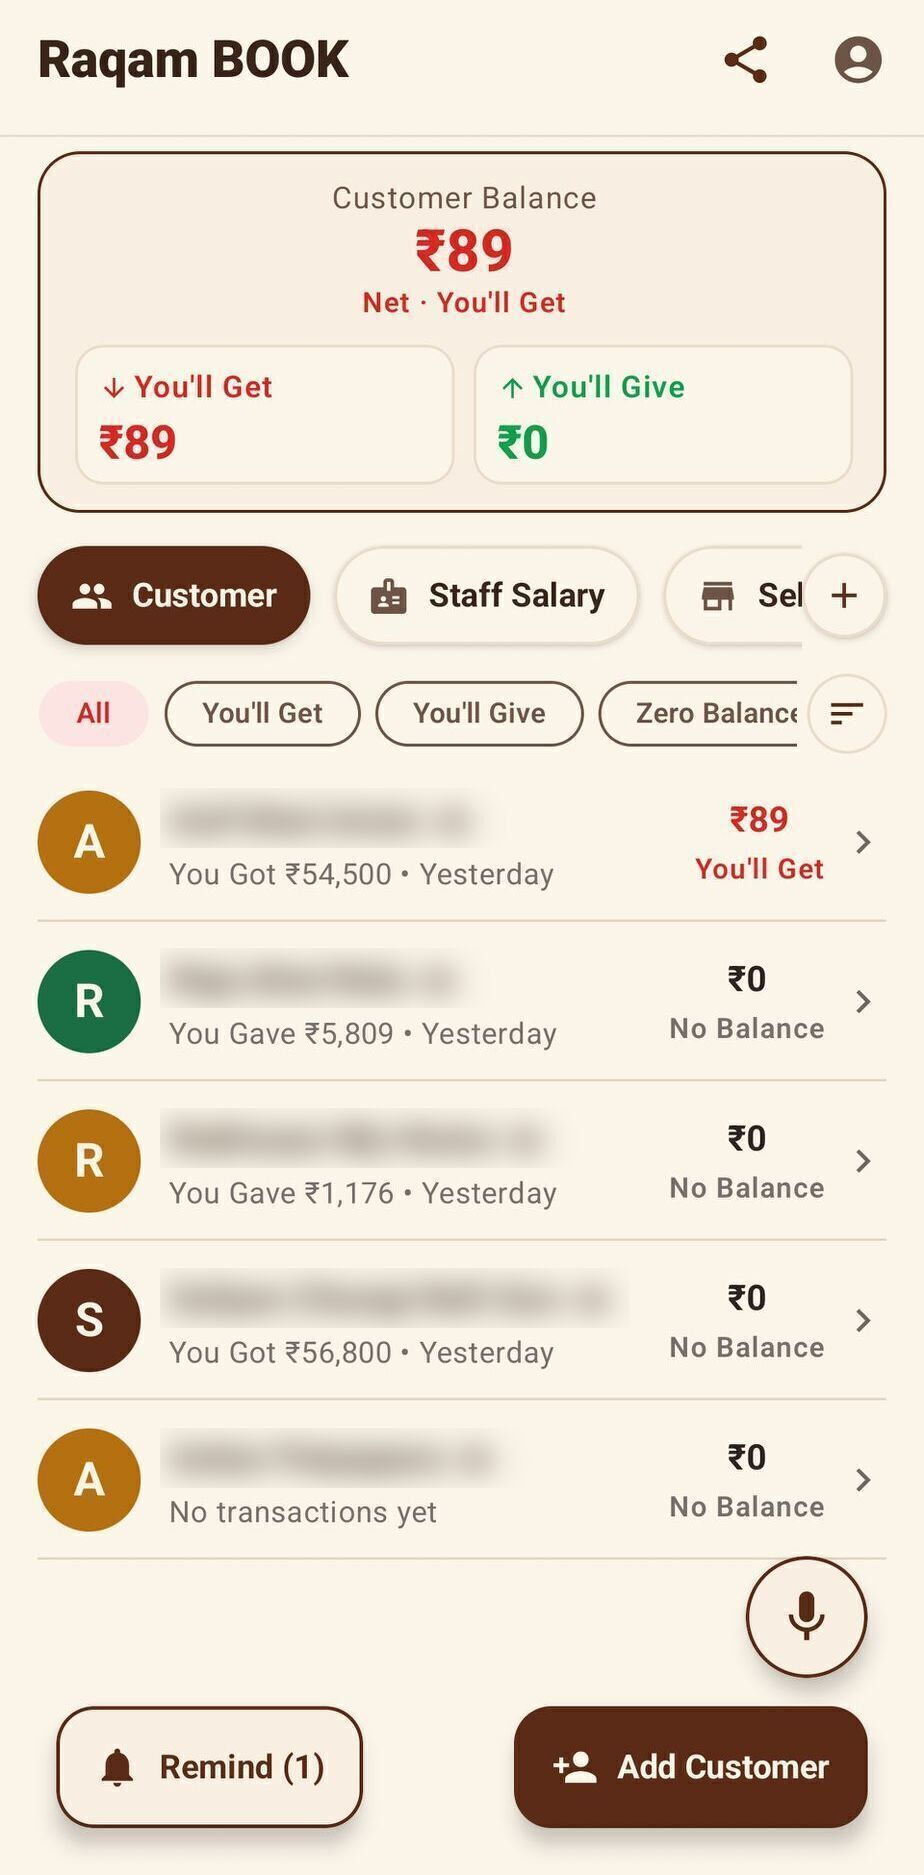
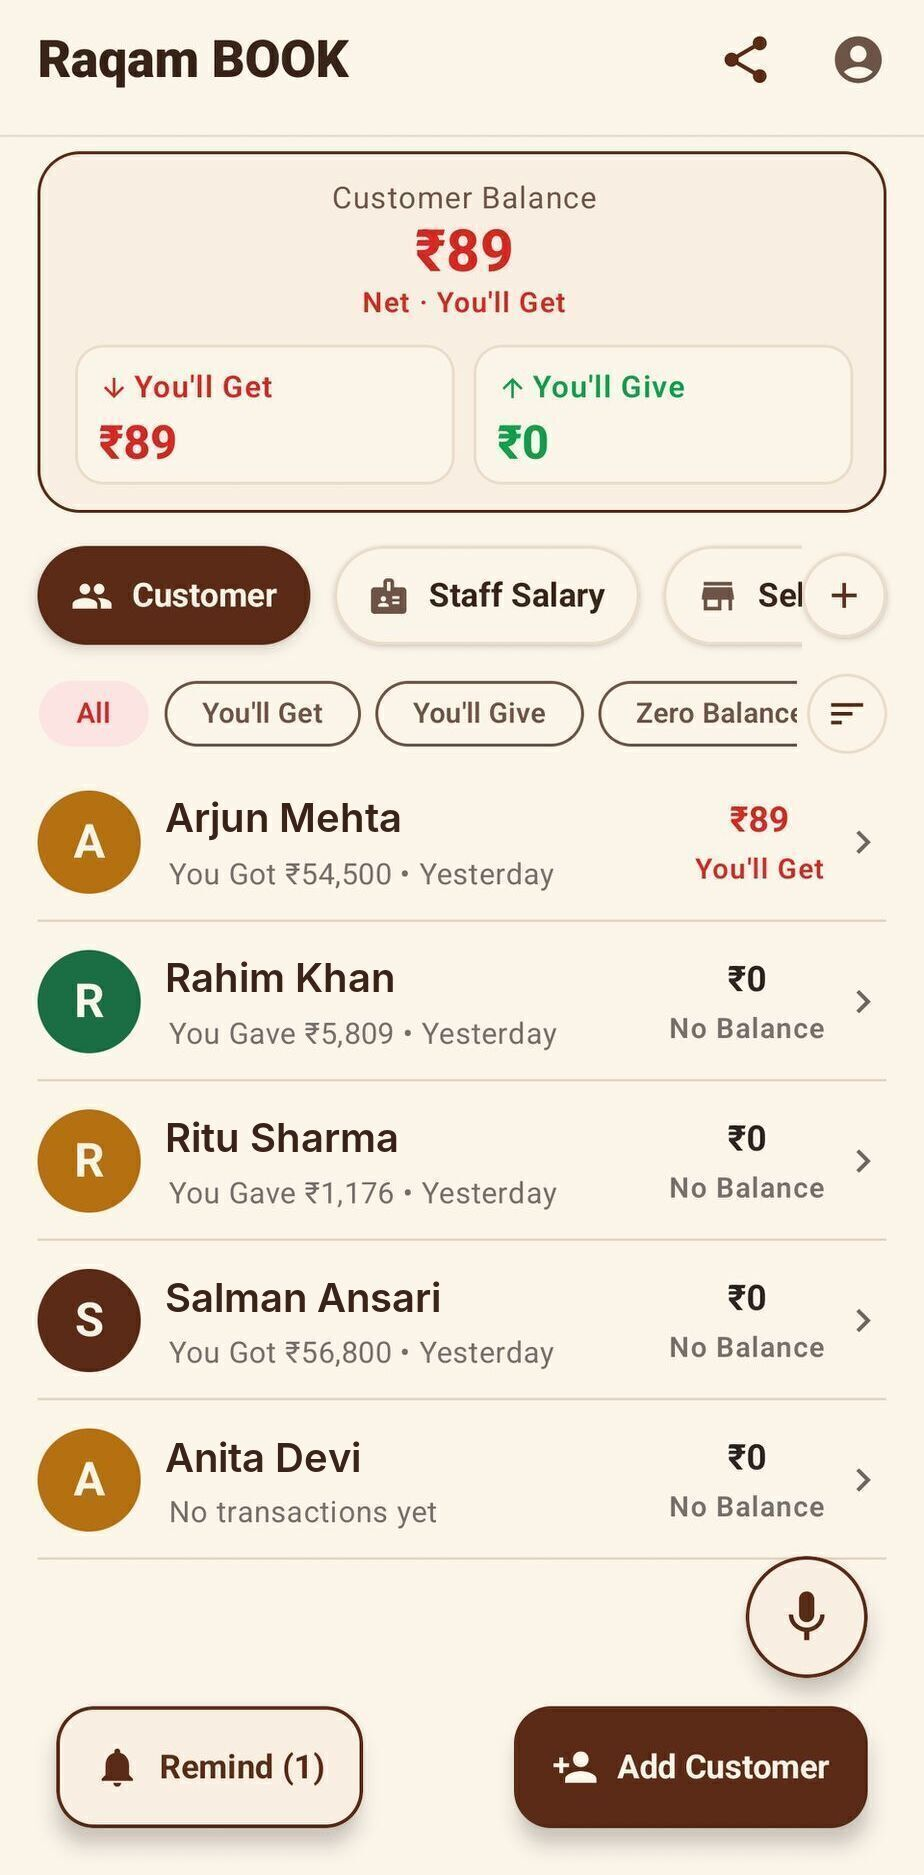
Mobile-first home page, demo names in screenshots, all languages listed

diff --git a/index.html b/index.html
@@ -4,34 +4,34 @@
 <style>
 :root{--cream:#FBF4E9;--surf:#F8EFE2;--muted:#F3E8D8;--border:#EADCC8;--ink:#3A2318;--inkm:#6E5446;--choc:#5B2B17;--deep:#3F1D10;--onch:#E9D5C0;--green:#0E9F4F;--gl:#E3F4EA;--cherry:#E02424;--cl:#FCE4E2}
 *{box-sizing:border-box}html{scroll-behavior:smooth}
-body{margin:0;background:var(--cream);color:var(--ink);font-family:Roboto,"Segoe UI",Arial,sans-serif;line-height:1.55;overflow-x:hidden}
-a{color:inherit}.wrap{max-width:1080px;margin:0 auto;padding:0 20px}
+body{margin:0;background:#E6D6BF;color:var(--ink);font-family:Roboto,"Segoe UI",Arial,sans-serif;line-height:1.55;overflow-x:hidden}
+a{color:inherit}.app{max-width:480px;margin:0 auto;background:var(--cream);box-shadow:0 0 50px rgba(91,43,23,.18);overflow:hidden}.wrap{padding:0 16px}
 header{position:sticky;top:0;z-index:20;background:rgba(251,244,233,.92);backdrop-filter:blur(8px);border-bottom:1px solid var(--border)}
 .nav{display:flex;align-items:center;justify-content:space-between;height:62px}
 .brand{display:flex;align-items:center;gap:10px;font-weight:800;font-size:20px;color:var(--choc);text-decoration:none}.brand img{width:34px;height:34px;border-radius:9px}
-.nav nav a{color:var(--inkm);text-decoration:none;font-weight:600;margin-left:20px;font-size:14.5px}
-.nav .dl{background:var(--choc);color:var(--cream);padding:8px 16px;border-radius:20px}
+.nav nav a{color:var(--inkm);text-decoration:none;font-weight:600;margin-left:20px;font-size:14.5px;display:none}
+.nav nav a.dl{display:inline-block;background:var(--choc);color:var(--cream);padding:8px 16px;border-radius:20px;margin:0}
 /* hero */
 .hero{background:radial-gradient(900px 500px at 80% 40%,#7a3b22 0,var(--deep) 60%);color:var(--cream);overflow:hidden}
-.hero .wrap{display:grid;grid-template-columns:1.05fr .95fr;gap:30px;align-items:center;padding-top:56px;padding-bottom:64px}
+.hero .wrap{padding-top:28px;padding-bottom:30px}
 .tag{display:inline-block;background:rgba(251,244,233,.12);border:1px solid rgba(251,244,233,.25);padding:5px 14px;border-radius:20px;font-size:13px;font-weight:600;margin-bottom:16px}
-h1{font-size:48px;line-height:1.08;margin:0 0 16px;letter-spacing:-.8px}
+h1{font-size:33px;line-height:1.08;margin:0 0 16px;letter-spacing:-.8px}
 h1 em{font-style:normal;color:#F2C48D}
-.lead{font-size:18.5px;color:var(--onch);margin:0 0 26px;max-width:470px}
+.lead{font-size:16px;color:var(--onch);margin:0 0 20px}
 .btn{display:inline-flex;align-items:center;gap:10px;background:var(--cream);color:var(--choc);padding:13px 24px;border-radius:30px;font-weight:800;font-size:16px;text-decoration:none;transition:transform .2s}
 .btn:hover{transform:translateY(-2px) scale(1.03)}.btn small{display:block;font-weight:600;font-size:10.5px;color:var(--inkm);line-height:1}.btn b{display:block;line-height:1.15}
 .btn.dark{background:var(--choc);color:var(--cream)}.btn.dark small{color:var(--onch)}
 .sub{margin-top:14px;color:var(--onch);font-size:13.5px}
 /* phones */
-.stage{position:relative;height:560px;display:flex;justify-content:center;align-items:center}
-.ph{position:absolute;width:250px;aspect-ratio:9/19;background:#1e0f08;border-radius:38px;padding:9px;box-shadow:0 30px 60px rgba(0,0,0,.45),inset 0 0 0 2px #6b4430}
+.stage{position:relative;height:470px;margin-top:10px;display:flex;justify-content:center;align-items:center}
+.ph{position:absolute;width:205px;aspect-ratio:9/19;background:#1e0f08;border-radius:38px;padding:9px;box-shadow:0 30px 60px rgba(0,0,0,.45),inset 0 0 0 2px #6b4430}
 .ph::before{content:"";position:absolute;top:14px;left:50%;transform:translateX(-50%);width:62px;height:16px;background:#1e0f08;border-radius:10px;z-index:3}
 .scr{position:relative;width:100%;height:100%;border-radius:30px;overflow:hidden;background:var(--cream)}
 .scr img{position:absolute;inset:26px 0 0 0;width:100%;height:calc(100% - 26px);object-fit:cover;object-position:top;opacity:0;transform:translateX(26px);transition:opacity .8s,transform .8s}
 .scr img.on{opacity:1;transform:none}
 .ph.main{z-index:2;animation:fl 6s ease-in-out infinite}
-.ph.l{left:2%;transform:rotate(-9deg) scale(.82);opacity:.9;animation:fl2 7s ease-in-out infinite}
-.ph.r{right:2%;transform:rotate(9deg) scale(.82);opacity:.9;animation:fl3 7.5s ease-in-out infinite}
+.ph.l{left:-6%;transform:rotate(-9deg) scale(.8);opacity:.9;animation:fl2 7s ease-in-out infinite}
+.ph.r{right:-6%;transform:rotate(9deg) scale(.82);opacity:.9;animation:fl3 7.5s ease-in-out infinite}
 @keyframes fl{50%{transform:translateY(-16px)}}@keyframes fl2{50%{transform:rotate(-9deg) scale(.82) translateY(14px)}}@keyframes fl3{50%{transform:rotate(9deg) scale(.82) translateY(-12px)}}
 .chip{position:absolute;z-index:4;background:var(--cream);color:var(--ink);border-radius:14px;padding:8px 13px;font-weight:700;font-size:13px;box-shadow:0 10px 24px rgba(0,0,0,.3);animation:fl 5s ease-in-out infinite}
 .chip.g{color:var(--green)}.chip.c{color:var(--cherry)}
@@ -40,19 +40,19 @@ h1 em{font-style:normal;color:#F2C48D}
 .mq div{display:inline-block;animation:mq 38s linear infinite;font-weight:700;font-size:20px}
 .mq span{margin:0 22px}.mq i{color:#F2C48D;font-style:normal}
 @keyframes mq{to{transform:translateX(-50%)}}
-section{padding:60px 0}h2{font-size:34px;color:var(--choc);margin:0 0 8px;letter-spacing:-.4px}.sec{color:var(--inkm);margin:0 0 30px;max-width:560px}
+section{padding:38px 0}h2{font-size:26px;color:var(--choc);margin:0 0 8px;letter-spacing:-.4px}.sec{color:var(--inkm);margin:0 0 30px;max-width:560px}
 .center{text-align:center}.center .sec{margin-left:auto;margin-right:auto}
 /* reveal */
 .rv{opacity:0;transform:translateY(26px);transition:opacity .7s,transform .7s}.rv.on{opacity:1;transform:none}
 /* features */
-.grid{display:grid;grid-template-columns:repeat(3,1fr);gap:16px}
-.card{background:var(--surf);border:1px solid var(--border);border-radius:20px;padding:22px;transition:transform .25s,box-shadow .25s}
+.grid{display:grid;grid-template-columns:1fr 1fr;gap:12px}
+.card{background:var(--surf);border:1px solid var(--border);border-radius:18px;padding:16px;transition:transform .25s,box-shadow .25s}
 .card:hover{transform:translateY(-6px);box-shadow:0 14px 30px rgba(91,43,23,.12)}
 .ic{width:48px;height:48px;border-radius:14px;background:var(--muted);display:flex;align-items:center;justify-content:center;font-size:24px;margin-bottom:12px}
-.card h3{margin:0 0 6px;font-size:18px;color:var(--choc)}.card p{margin:0;color:var(--inkm);font-size:14.5px}
+.card h3{margin:0 0 4px;font-size:16px;color:var(--choc)}.card p{margin:0;color:var(--inkm);font-size:13.5px}
 /* steps */
 .steps{background:var(--surf);border-block:1px solid var(--border)}
-.st{display:grid;grid-template-columns:repeat(3,1fr);gap:20px;counter-reset:s}
+.st{display:grid;grid-template-columns:1fr;gap:12px;counter-reset:s}
 .st div{position:relative;padding:20px 20px 20px 20px;background:var(--cream);border:1px solid var(--border);border-radius:18px}
 .st div::before{counter-increment:s;content:counter(s);display:flex;width:34px;height:34px;border-radius:50%;background:var(--choc);color:var(--cream);font-weight:800;align-items:center;justify-content:center;margin-bottom:10px}
 .st h4{margin:0 0 4px;font-size:17px;color:var(--choc)}.st p{margin:0;color:var(--inkm);font-size:14.5px}
@@ -62,34 +62,33 @@ section{padding:60px 0}h2{font-size:34px;color:var(--choc);margin:0 0 8px;letter
 .trades span:hover{background:var(--choc);color:var(--cream);transform:scale(1.06)}
 /* languages */
 .lang{background:var(--deep);color:var(--cream)}.lang h2{color:var(--cream)}.lang .sec{color:var(--onch)}
-.lg{display:flex;flex-wrap:wrap;gap:12px;justify-content:center}
-.lg div{background:rgba(251,244,233,.08);border:1px solid rgba(251,244,233,.2);border-radius:16px;padding:12px 18px;min-width:128px;text-align:center;animation:pop 4s ease-in-out infinite}
+.lg{display:flex;flex-wrap:wrap;gap:10px;justify-content:center}
+.lg div{background:rgba(251,244,233,.08);border:1px solid rgba(251,244,233,.2);border-radius:14px;padding:10px 6px;width:calc(33.3% - 8px);text-align:center;animation:pop 4s ease-in-out infinite}
 .lg div:nth-child(2n){animation-delay:.6s}.lg div:nth-child(3n){animation-delay:1.2s}
-.lg b{display:block;font-size:21px}.lg small{color:var(--onch);font-size:12px}
+.lg b{display:block;font-size:19px}.lg small{color:var(--onch);font-size:12px}
 @keyframes pop{50%{transform:translateY(-6px);background:rgba(251,244,233,.16)}}
 /* plans */
-.plans{display:grid;grid-template-columns:1fr 1fr;gap:18px;max-width:760px;margin:0 auto}
+.plans{display:grid;grid-template-columns:1fr;gap:14px}
 .plan{background:var(--surf);border:1px solid var(--border);border-radius:22px;padding:26px}
 .plan.pro{background:var(--choc);color:var(--cream);border-color:var(--choc)}
 .plan h3{margin:0;font-size:22px}.plan .pr{font-size:15px;color:var(--inkm);margin:2px 0 14px}.plan.pro .pr{color:var(--onch)}
 .plan ul{list-style:none;padding:0;margin:0}.plan li{padding:5px 0 5px 26px;position:relative;font-size:14.5px}
 .plan li::before{content:"✓";position:absolute;left:0;color:var(--green);font-weight:800}.plan.pro li::before{color:#8fe3b2}
 /* faq */
-.faq{max-width:760px;margin:0 auto}details{background:var(--surf);border:1px solid var(--border);border-radius:16px;padding:14px 18px;margin-bottom:10px}
+.faq{}details{background:var(--surf);border:1px solid var(--border);border-radius:16px;padding:14px 18px;margin-bottom:10px}
 summary{cursor:pointer;font-weight:700;color:var(--choc)}details p{margin:8px 0 0;color:var(--inkm);font-size:14.5px}
 .cta{background:radial-gradient(700px 300px at 50% 0,#7a3b22,var(--deep));color:var(--cream);text-align:center}.cta h2{color:var(--cream)}
 footer{background:var(--surf);border-top:1px solid var(--border);color:var(--inkm);font-size:14px}
 footer .wrap{display:flex;justify-content:space-between;align-items:center;padding:22px 20px;flex-wrap:wrap;gap:10px}footer a{font-weight:700;color:var(--choc)}
-@media(max-width:860px){.hero .wrap{grid-template-columns:1fr;padding-top:36px}h1{font-size:36px}.stage{height:500px}.grid,.st,.plans{grid-template-columns:1fr}.nav nav a.hide{display:none}}
 @media(prefers-reduced-motion:reduce){*{animation:none!important;transition:none!important}.scr img.on{opacity:1}.rv{opacity:1;transform:none}}
 </style></head><body>
-<header><div class="wrap nav"><a class="brand" href="#"><img src="icon.png" alt="">Raqam Book</a>
-<nav><a class="hide" href="#features">Khaasiyat</a><a class="hide" href="#languages">Bhashayein</a><a class="hide" href="#plans">Plans</a><a class="hide" href="#faq">FAQ</a><a class="dl" href="#download">Download</a></nav></div></header>
+<div class="app"><header><div class="wrap nav"><a class="brand" href="#"><img src="icon.png" alt="">Raqam Book</a>
+<nav><a class="dl" href="#download">Download</a></nav></div></header>
 
 <div class="hero"><div class="wrap"><div>
 <span class="tag">📒 Dukaan aur ghar, dono ka khaata</span>
 <h1>Hisaab ab <em>haath mein</em>, kaagaz ki jhanjhat nahi.</h1>
-<p class="lead">Customer ka udhaar, bikri, kharcha aur staff ki salary, sab ek app mein. English aur Hindi mein taiyaar, baaki Indian bhashayein aa rahi hain.</p>
+<p class="lead">Customer ka udhaar, bikri, kharcha aur staff ki salary, sab ek app mein. Aapki apni bhasha mein.</p>
 <a class="btn" href="#download"><span style="font-size:24px">▶</span><span><small>GET IT ON</small><b>Google Play</b></span></a>
 <div class="sub">Free mein shuru karein · Aapka data aapke apne login ke andar</div></div>
 <div class="stage">
@@ -120,7 +119,7 @@ footer .wrap{display:flex;justify-content:space-between;align-items:center;paddi
 <section><div class="wrap center"><div class="rv"><h2>Har tarah ke kaam ke liye</h2><p class="sec">Chhoti dukaan se ghar ke kharche tak. Apni chip bana kar apna alag khaata rakhein.</p></div>
 <div class="trades rv"><span>🛒 Kirana</span><span>💊 Medical store</span><span>📱 Mobile shop</span><span>🧵 Darzi</span><span>🥛 Dairy</span><span>🔧 Hardware</span><span>💇 Salon</span><span>🚚 Transport</span><span>🌾 Kheti</span><span>👕 Kapde</span><span>🍽 Dhaba</span><span>🏠 Ghar ka kharcha</span></div></div></section>
 
-<section class="lang" id="languages"><div class="wrap center"><div class="rv"><h2>Apni bhasha mein khaata</h2><p class="sec">App English aur Hindi mein poora taiyaar hai. Baaki Indian bhashayein aa rahi hain. Settings → Language mein jab chahein badal lein.</p></div>
+<section class="lang" id="languages"><div class="wrap center"><div class="rv"><h2>Apni bhasha mein khaata</h2><p class="sec">Raqam Book in 13 bhashaon mein hai. Settings → Language mein jab chahein badal lein.</p></div>
 <div class="lg rv" id="lg"></div></div></section>
 
 <section id="plans"><div class="wrap"><div class="center rv"><h2>Plans</h2><p class="sec">Shuru karna free hai. Premium sirf ads hatane ke liye.</p></div>
@@ -138,9 +137,9 @@ footer .wrap{display:flex;justify-content:space-between;align-items:center;paddi
 <a class="btn" href="#"><span style="font-size:24px">▶</span><span><small>GET IT ON</small><b>Google Play</b></span></a></div></section>
 
 <footer><div class="wrap"><span>© 2026 Raqam Book</span><span><a href="privacy.html">Privacy Policy</a> · <a href="terms.html">Terms</a> · <a href="refund.html">Refund</a> · <a href="delete-account.html">Delete account</a> · <a href="mailto:raqambook@gmail.com">Sampark</a></span></div></footer>
-<script>
-const L=[["English","Ready"],["हिन्दी","Ready"],["Hinglish","Jald"],["मराठी","Jald"],["ગુજરાતી","Jald"],["ਪੰਜਾਬੀ","Jald"],["বাংলা","Jald"],["தமிழ்","Jald"],["తెలుగు","Jald"],["ಕನ್ನಡ","Jald"],["മലയാളം","Jald"],["ଓଡ଼ିଆ","Jald"],["অসমীয়া","Jald"]];
-document.getElementById("lg").innerHTML=L.map(x=>`<div><b>${x[0]}</b><small>${x[1]=="Ready"?"✓ Taiyaar":"Jald aa raha hai"}</small></div>`).join("");
+</div><script>
+const L=[["English","English"],["हिन्दी","Hindi"],["Hinglish","Roman Hindi"],["मराठी","Marathi"],["ગુજરાતી","Gujarati"],["ਪੰਜਾਬੀ","Punjabi"],["বাংলা","Bengali"],["தமிழ்","Tamil"],["తెలుగు","Telugu"],["ಕನ್ನಡ","Kannada"],["മലയാളം","Malayalam"],["ଓଡ଼ିଆ","Odia"],["অসমীয়া","Assamese"]];
+document.getElementById("lg").innerHTML=L.map(x=>`<div><b>${x[0]}</b><small>${x[1]}</small></div>`).join("");
 const m=L.map(x=>`<span>${x[0]}</span><i>●</i>`).join("");document.getElementById("mq").innerHTML=m+m;
 document.querySelectorAll(".scr").forEach((el,k)=>{const L=el.dataset.s.split(",");L.forEach(n=>{const i=new Image();i.src="app"+n+".jpg";i.alt="Raqam Book screen";el.appendChild(i)});let c=0;const im=el.children;const go=()=>{[...im].forEach((x,j)=>x.classList.toggle("on",j===c));c=(c+1)%im.length};setTimeout(()=>{go();setInterval(go,3200)},k*900)});
 const io=new IntersectionObserver(e=>e.forEach(i=>{if(i.isIntersecting){i.target.classList.add("on");io.unobserve(i.target)}}),{threshold:.15});
